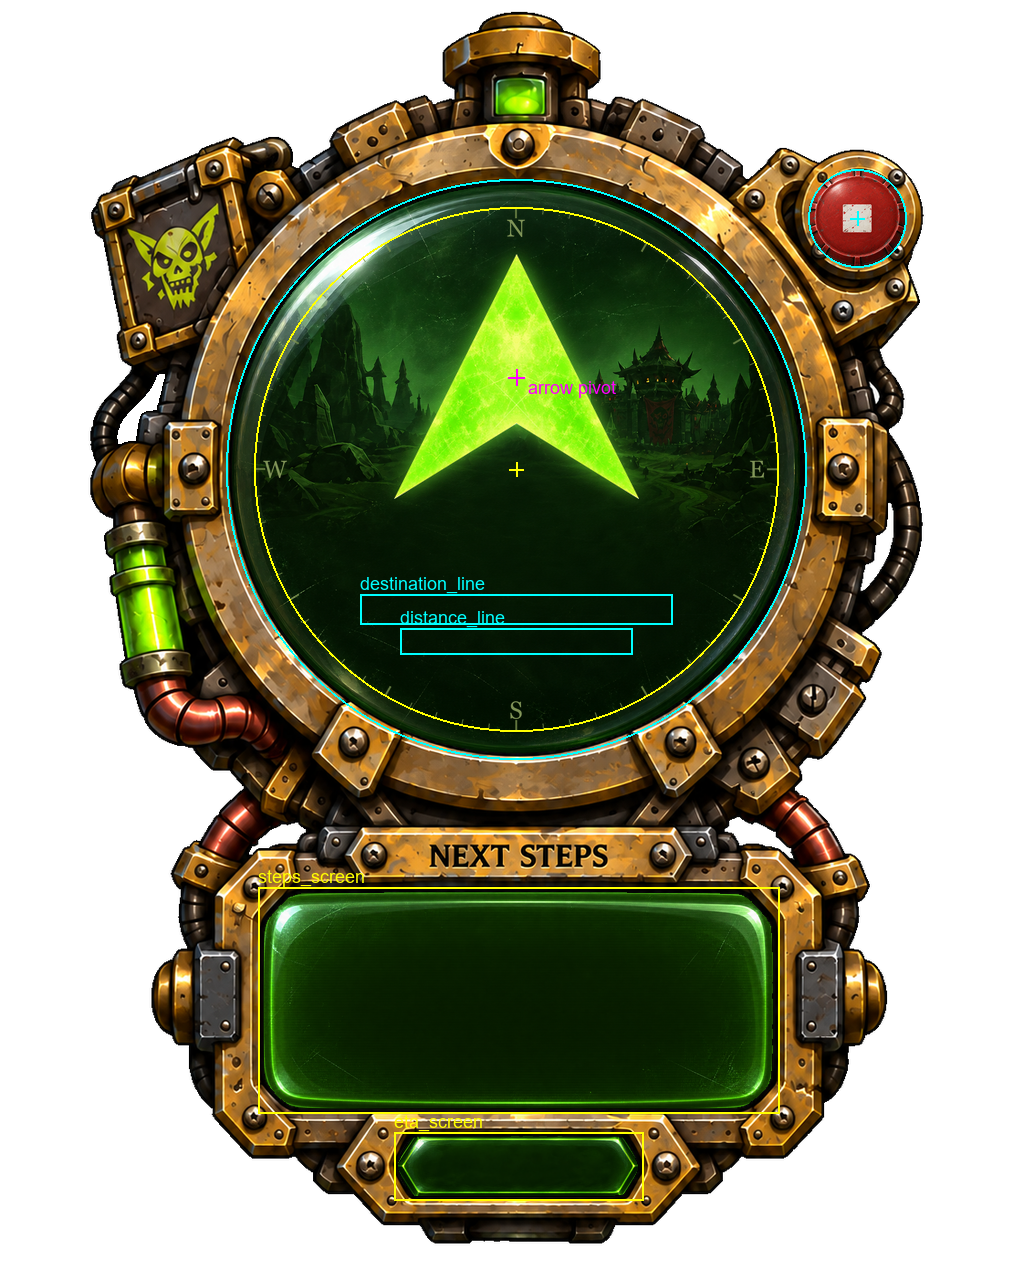
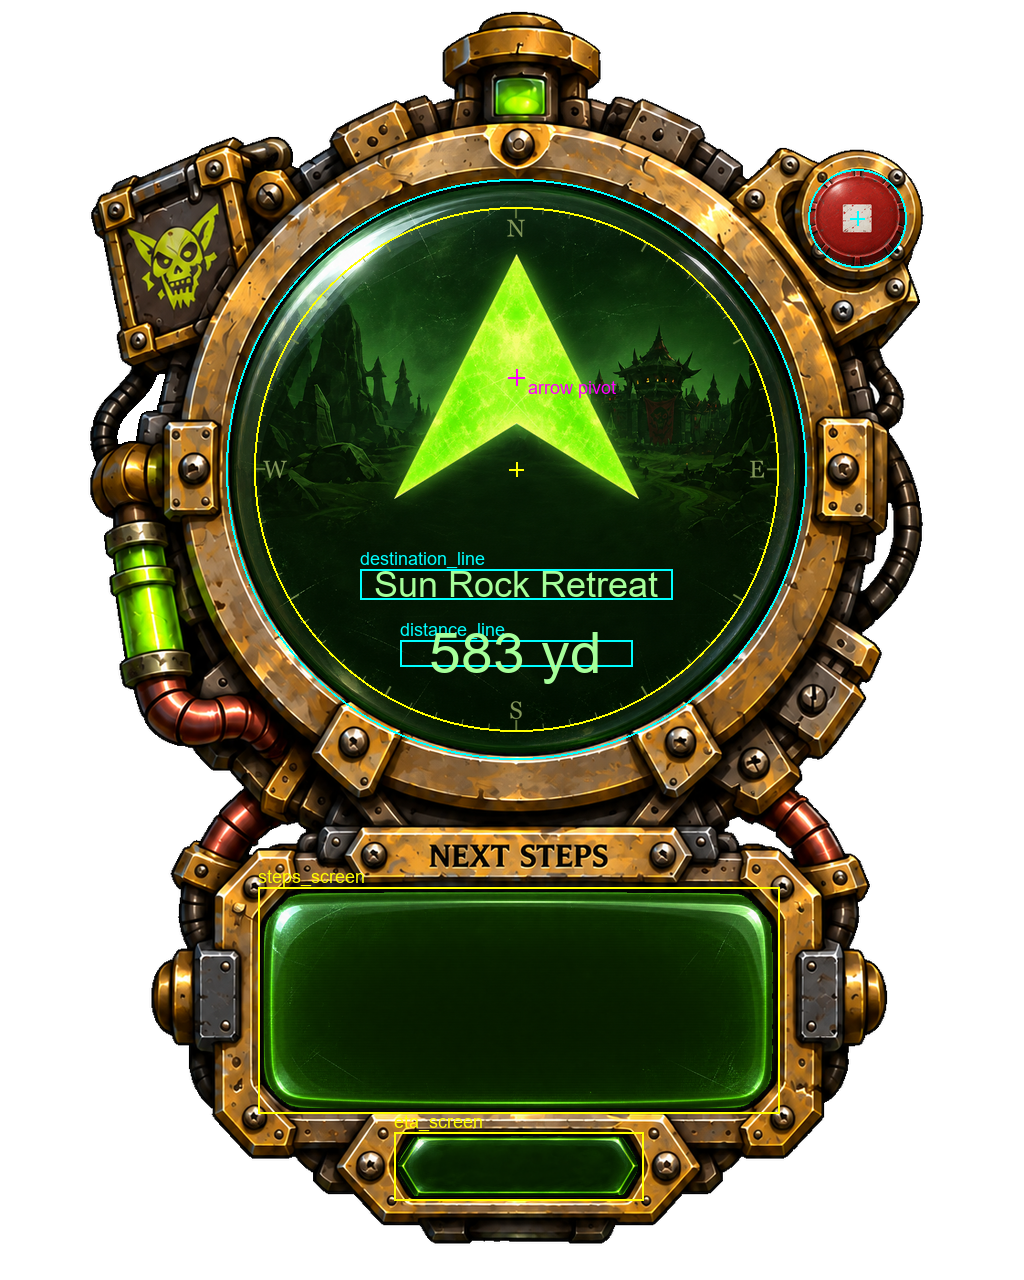
Separate dash destination and distance text centers

Changed region(s): [[0.3438, 0.4375, 0.6562, 0.5312]]

diff --git a/images/parts/export_dash2_tga.py b/images/parts/export_dash2_tga.py
@@ -152,6 +152,39 @@ def main():
         draw.line((x, y-7, x, y+7), fill=color, width=2)
     proof.save(ROOT / "_dash2-geometry-proof.png")
 
+    # Slots locate text centers; validate real glyphs at the addon's 288x360 size.
+    sample = assembled.copy()
+    glyphs = Image.new('L', (width, height))
+    glyph_draw = ImageDraw.Draw(glyphs)
+    sample_draw = ImageDraw.Draw(sample)
+    text_bounds = []
+    for key, words, runtime_size in (('destination_line', 'Sun Rock Retreat', 10),
+                                     ('distance_line', '583 yd', 16)):
+        left, top, right, bottom = rect(geometry[key])
+        position = ((left+right)/2, (top+bottom)/2)
+        sample_font = ImageFont.truetype(str(font_path), round(runtime_size * width/288))
+        glyph_draw.text(position, words, font=sample_font, fill=255, anchor='mm')
+        sample_draw.text(position, words, font=sample_font, fill='#a6ff9a', anchor='mm')
+        text_bounds.append(sample_draw.textbbox(position, words, font=sample_font, anchor='mm'))
+        ImageDraw.Draw(proof).text(position, words, font=sample_font, fill='#a6ff9a', anchor='mm')
+    require(text_bounds[0][3] < text_bounds[1][1], 'Sample text lines overlap')
+    proof.save(ROOT / '_dash2-geometry-proof.png')
+    text_pixels = np.array(glyphs) > 0
+    yy, xx = np.where(text_pixels)
+    require(((xx-gx)**2+(yy-gy)**2 < gr**2).all(), 'Sample text leaves glass')
+    for angle in range(0, 360, 5):
+        rotated_arrow = Image.new('RGBA', (width,height))
+        rotated_arrow.alpha_composite(arrow.rotate(angle, resample=Image.Resampling.BICUBIC), arrow_xy)
+        require(not (text_pixels & (np.array(rotated_arrow.getchannel('A')) > 0)).any(),
+                f'Sample text touches arrow at {angle} degrees')
+        rotated_compass = Image.new('RGBA', (width,height))
+        rotated_compass.alpha_composite(scratch.rotate(angle, resample=Image.Resampling.BICUBIC),
+                                       (round(cx)-scratch_radius, round(cy)-scratch_radius))
+        require(not (text_pixels & (np.array(rotated_compass.getchannel('A')) > 0)).any(),
+                f'Sample text touches compass at {angle} degrees')
+    sample.save(ROOT / '_dash2-text-placement.png')
+    sample.resize((288,360), Image.Resampling.LANCZOS).save(ROOT / '_dash2-text-runtime-proof.png')
+
     records = {}
     for name, image in images.items():
         padded_size = tuple(1 << (n-1).bit_length() for n in image.size)

diff --git a/images/parts/dash2-notes.md b/images/parts/dash2-notes.md
@@ -1,5 +1,26 @@
 # Dash 2 art handoff
 
+## Text spacing update — 2026-09-22
+
+Destination center is now y584 (slot y569–599); distance center is y653
+(slot y640–666). Their gap is 69px / 1280 = 0.05390625, or 19.40625px on the
+288x360 dash. Widths and slot heights are unchanged. The name moved up 25px
+and the distance down 12px, preserving room for the rotating compass beneath.
+These replace the earlier text positions. All other geometry keys and artwork
+are unchanged; Claude regenerates Art.lua to apply them.
+
+The exporter now renders “Sun Rock Retreat” and “583 yd” using Arial at
+source-scaled equivalents of the addon's approximately 10px and 16px fonts.
+The sample glyphs do not overlap each other, stay inside the glass, and clear
+every nonzero-alpha arrow/compass pixel across rotations sampled every five
+degrees. The placement slots also pass the existing rotating-compass checks.
+The arrow's lowest faint glow is y567, above the name slot's y569 top.
+Actual game font metrics still need an in-game check; Arial is the desktop
+proof font, not a claim of pixel-identical Blizzard text rendering.
+
+Fresh proofs: `_dash2-geometry-proof.png`, `_dash2-text-placement.png` and
+`_dash2-text-runtime-proof.png` (288x360). No shipped texture needs changing.
+
 ## Arrow/compass update — 2026-09-22
 
 Arrow center is now (516,377): `cy = 0.29453125`, 92 source pixels above
